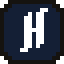
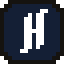
fixed alignment

diff --git a/voxicons/index.html b/voxicons/index.html
@@ -38,10 +38,15 @@
 <div class="container">
     <div id="iconsGrid"></div>
 </div>
-
-<div class="footer">
-    Voxicons © 2026 <a href="https://voxelforgestudios.com" target="_blank">Voxel Forge Studios</a> - Free to use in projects.  
+<div style="display:flex; justify-content:center; margin:10px 0;">
+  <a href="https://github.com/VoxelForge-oss/voxicons" target="_blank">
+    <img src="https://voxelforge-oss.github.io/voxicons/voxicons/badges/github.png" alt="Badge">
+  </a>
 </div>
+<footer class="footer">
+    <p>Voxicons © 2026 <a href="https://voxelforgestudios.com" target="_blank">Voxel Forge Studios</a> - Free to use in projects. </p> 
+    <p>Voxicons is an independent project and is not affiliated with, endorsed by, or sponsored by Mojang AB or Microsoft. Minecraft is a trademark of Mojang AB.</p>
+</footer>
 
 <button id="backToTop" onclick="scrollToTop()">↑ Back to Top</button>
 

diff --git a/voxicons/css/main.css b/voxicons/css/main.css
@@ -6,12 +6,14 @@ body {
     padding: 0;
 }
 
-header {
+header, footer {
     background: #1a1a1a;
     padding: 40px 20px;
     text-align: center;
     box-shadow: 0 4px 8px rgba(0,0,0,0.5);
 }
+
+
 
 header img {
     max-width: 350px;
